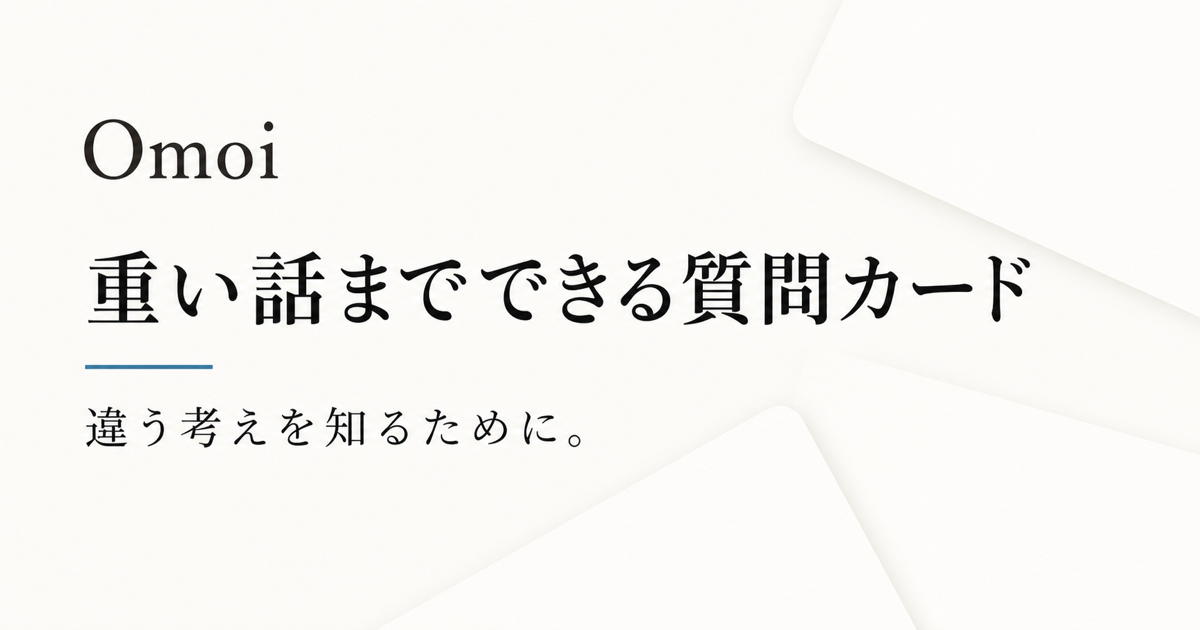
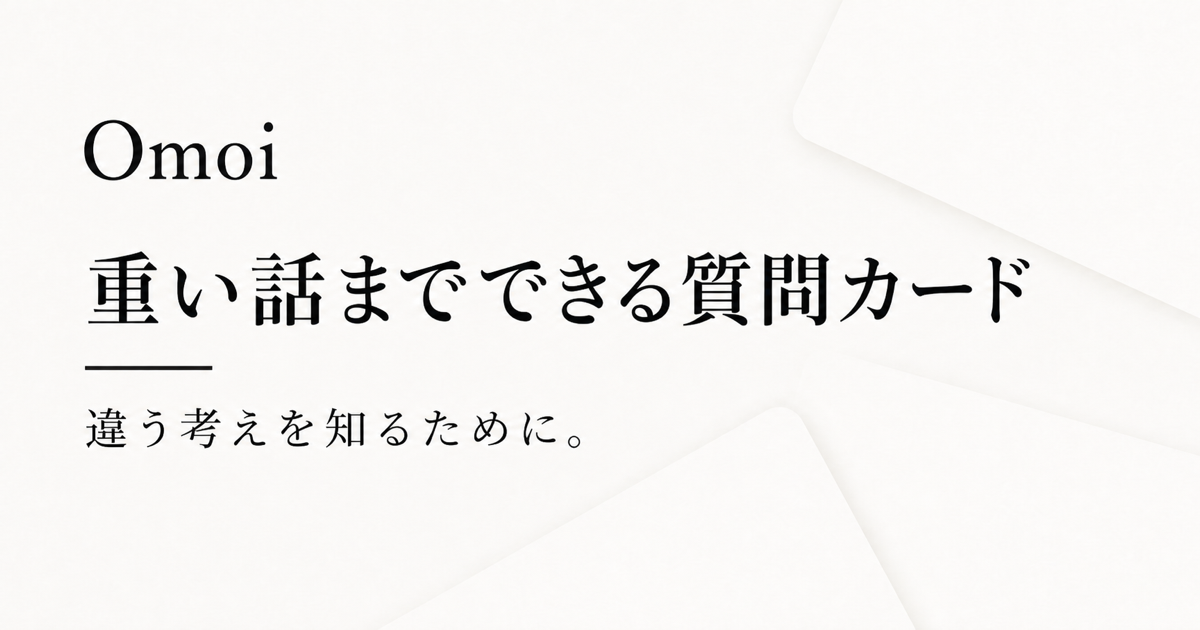
Omoiの導線と配色を整理

diff --git a/index.html b/index.html
@@ -93,9 +93,6 @@
             <a href="howto.html" class="howto-link">
                 使い方
             </a>
-            <a href="guide.html" class="guide-link">
-                質問カードとは
-            </a>
         </nav>
 
         <section class="hero">
@@ -152,8 +149,7 @@
         </p>
 
         <div class="home-resource-links">
-            <a href="guide.html">質問カードの使い方・選び方を読む</a>
-            <a href="howto.html">Omoiの使い方を見る</a>
+            <a href="guide.html">質問カードを選ぶ前に読む</a>
             <a href="https://viuk-light.org/omoi-safety.html">安全設計を確認する</a>
         </div>
     </section>

diff --git a/guide.css b/guide.css
@@ -4,7 +4,7 @@
     --guide-subtext: #666666;
     --guide-line: #e8e8e8;
     --guide-soft: #f7f7f7;
-    --guide-accent: #2f7ea5;
+    --guide-accent: #666666;
 }
 
 * {
